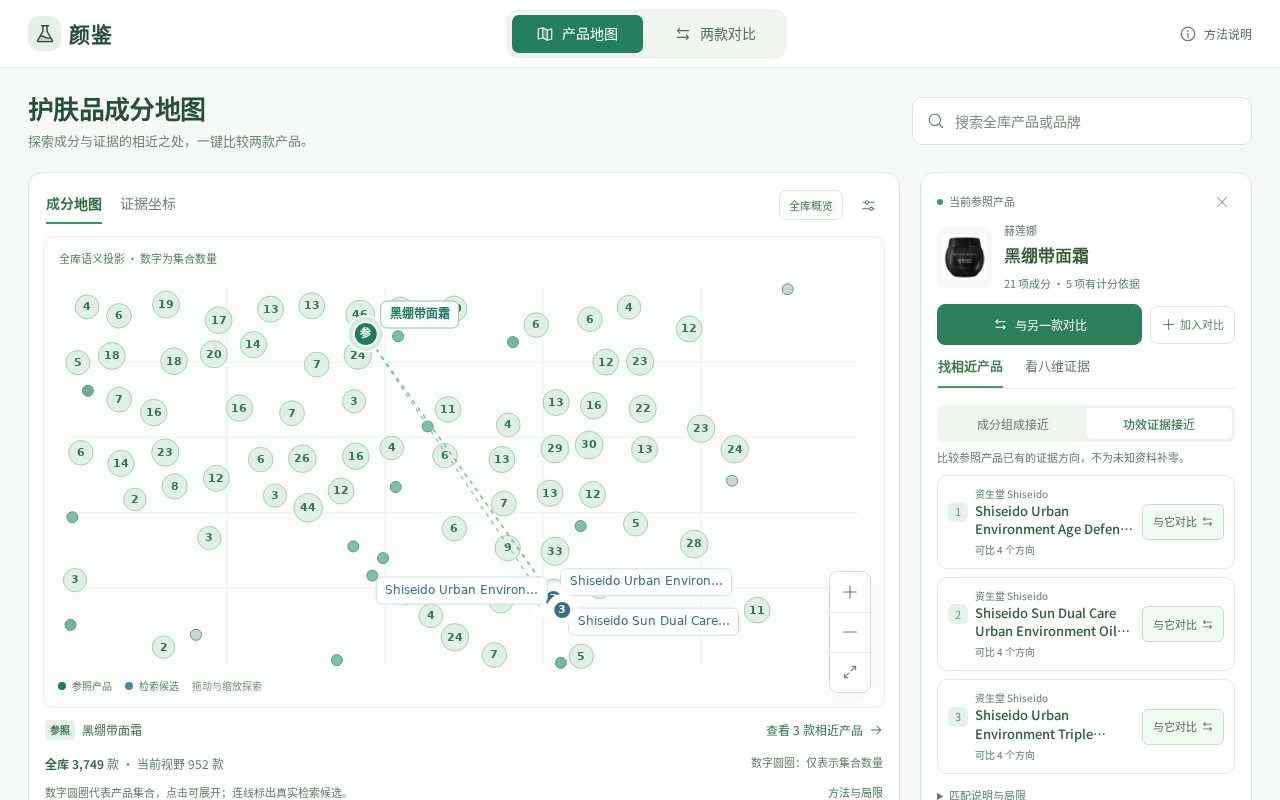
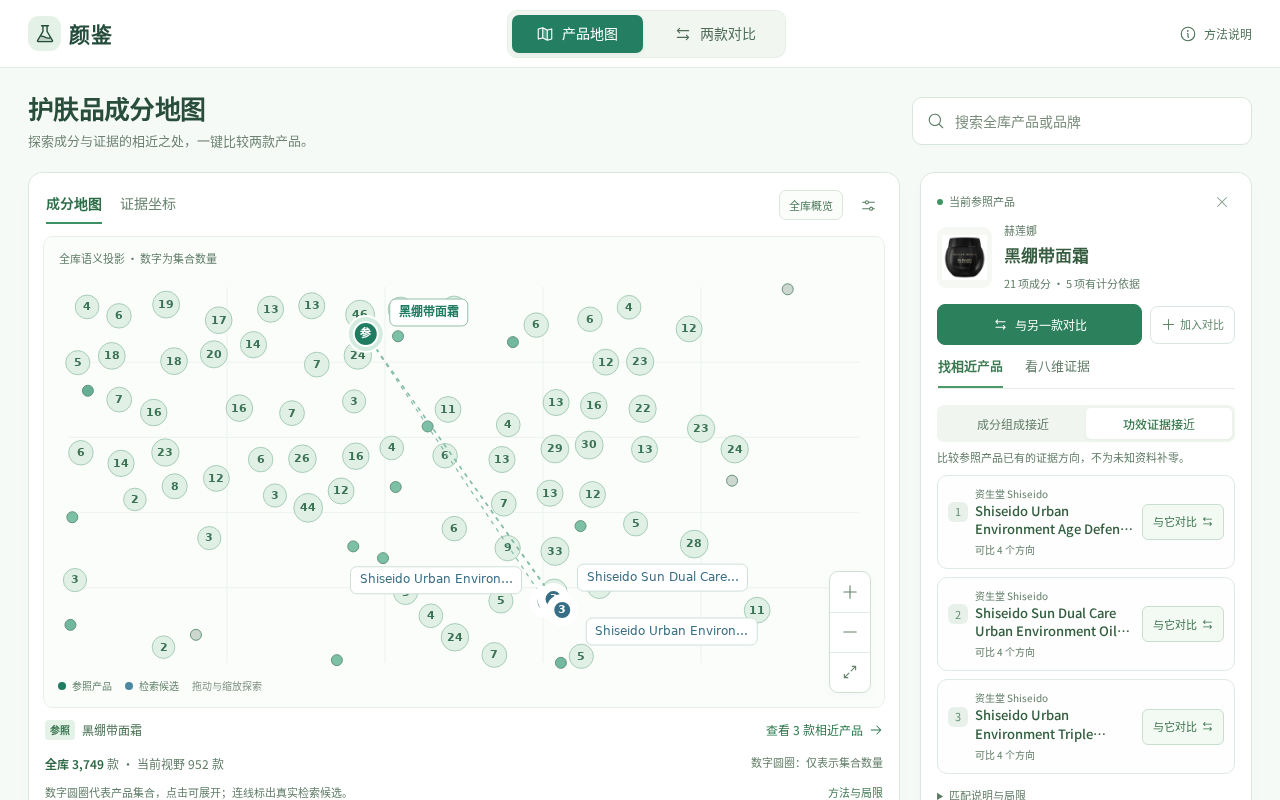
fix: 地图长名称避让全部候选节点

Changed region(s): [[0.2812, 0.6875, 0.5938, 0.8125], [0.2812, 0.375, 0.375, 0.4375]]

diff --git a/frontend/src/showcase/space/MapCanvas.jsx b/frontend/src/showcase/space/MapCanvas.jsx
@@ -1,6 +1,6 @@
 import { forwardRef,useEffect,useImperativeHandle,useMemo,useRef,useState } from 'react'
 import { Minus,Plus,ArrowsOutSimple } from '@phosphor-icons/react'
-import { boundsFor,coordinatesFor,hitsAt,pointTone,groupScreenPoints } from './space.mjs'
+import { boundsFor,coordinatesFor,hitsAt,pointTone,groupScreenPoints,placeMapLabel } from './space.mjs'
 
 export default forwardRef(function MapCanvas({products,visible,mode,axes,color,directions,selected,neighbors=[],comparison,focus,onChoose,onCluster,onViewportChange},ref){
  const frame=useRef(null),canvas=useRef(null),drag=useRef(null)
@@ -53,7 +53,7 @@ export default forwardRef(function MapCanvas({products,visible,mode,axes,color,d
   for(const g of groups){ctx.beginPath();ctx.arc(g.x,g.y,g.radius,0,Math.PI*2);ctx.fillStyle=g.count>1?'#e0f0e5':pointTone(g.items[0].scores[color],colorMax);ctx.fill();ctx.strokeStyle=g.count>1?'#a7cdb7':'#65947b';ctx.lineWidth=1;ctx.stroke();if(g.count>1){ctx.fillStyle='#3b7254';ctx.font='600 11px Arial';ctx.textAlign='center';ctx.textBaseline='middle';ctx.fillText(g.count,g.x,g.y+.5)}}
   const target=foreground.find(p=>p.product.id===selected)
   if(target){ctx.setLineDash([4,5]);ctx.strokeStyle='#84bca9';ctx.lineWidth=1.2;for(const p of foreground.filter(p=>neighbors.some(n=>n.id===p.product.id))){ctx.beginPath();ctx.moveTo(target.x,target.y);ctx.lineTo(p.x,p.y);ctx.stroke()}ctx.setLineDash([])}
-  const labels=[]
+  const labels=[],nodeObstacles=foreground.filter(inFrame).map(p=>{const r=p.product.id===selected?19:16;return {x:p.x-r,y:p.y-r,w:r*2,h:r*2}})
   for(const p of [...foreground].sort((a,b)=>(a.product.id===selected?1:0)-(b.product.id===selected?1:0))){
    if(!inFrame(p))continue
    const isTarget=p.product.id===selected,rank=neighbors.findIndex(n=>n.id===p.product.id),slot=comparison.indexOf(p.product.id)
@@ -66,9 +66,9 @@ export default forwardRef(function MapCanvas({products,visible,mode,axes,color,d
    ctx.font=isTarget?'600 12px Arial':'12px Arial';const max=size.width<500?115:155
    while(ctx.measureText(name).width>max&&name.length>3)name=name.slice(0,-2)+'…'
    const w=ctx.measureText(name).width+18,h=27
-   const options=[[p.x+15,p.y-33],[p.x+15,p.y+9],[p.x-w-15,p.y-33],[p.x-w-15,p.y+9]].map(([x,y])=>({x:Math.max(8,Math.min(x,size.width-w-8)),y:Math.max(35,Math.min(y,size.height-h-34)),w,h}))
-   const overlap=a=>labels.reduce((sum,b)=>sum+(a.x<b.x+b.w&&a.x+a.w>b.x&&a.y<b.y+b.h&&a.y+a.h>b.y?1:0),0)
-   options.sort((a,b)=>overlap(a)-overlap(b));const label=options[0];labels.push(label)
+   const label=placeMapLabel(p,w,h,size,nodeObstacles,labels)
+   if(!label)continue
+   labels.push(label)
    ctx.fillStyle='#ffffff';ctx.strokeStyle=isTarget?'#92bfaa':'#cee0d9';ctx.lineWidth=1;ctx.beginPath();ctx.roundRect(label.x,label.y,w,h,6);ctx.fill();ctx.stroke();ctx.fillStyle=ink;ctx.textAlign='left';ctx.textBaseline='middle';ctx.fillText(name,label.x+9,label.y+h/2)
   }
   ctx.restore()

diff --git a/docs/双核心重设计-验收记录.md b/docs/双核心重设计-验收记录.md
@@ -39,7 +39,7 @@
 
 ## 本地验证
 
-先补失败测试再实现。本轮全量pytest **838通过、1跳过**；前端逻辑 **15通过**；地图/对比浏览器 **23通过**；原站浏览器 **12通过**。原站与展示版生产构建均通过，`web/`仍提交默认原站构建。
+先补失败测试再实现。本轮全量pytest **838通过、1跳过**；前端逻辑 **16通过**；地图/对比浏览器 **23通过**；原站浏览器 **12通过**。原站与展示版生产构建均通过，`web/`仍提交默认原站构建。
 
 覆盖真实零、无资料、未评级、缺浓度、缺价、不同单位、同产品、快速切换、候选接口失败、八方向同刻度、边界点、聚合集合真实成员和源对象不变。测试通过不代替视觉判断。
 
@@ -55,3 +55,9 @@
 - [内嵌地图](design/dual-map-embedded.png)、[内嵌对比](design/dual-compare-embedded.png)。
 
 发布继续使用既有私有创空间、免费CPU、原数据库和冻结坐标；凭证不入库。云端构建、真实HTML/API、401权限和重启后数据签名在发布步骤单独核验，不由本地截图推定。
+
+## 云端复审后的标签修正
+
+首轮云端浏览器已核验两条主线、两个案例、任意A/B、两次点击来源与手机布局；数据、四款画像和布局签名不变，匿名API返回401。独立视觉专家随后发现桌面候选2的白底遮住候选3长名的一小段（P2），虽然侧栏仍可读，本次继续修复。
+
+新增标签几何失败回归后实现统一避让：所有前景节点的白底范围先作为障碍，再布置标签，连同此前标签一起判碰撞。没有清楚空位时不画画布长名，侧栏编号与完整名保留；不移动真实产品坐标，不重新在编号上盖长名。前端逻辑增至16项，重新构建并复验展示浏览器，发布修正后的版本继续进行云端复核与重启验收。

diff --git a/design-qa.md b/design-qa.md
@@ -24,10 +24,11 @@ final result: passed
 - 对比大包装推迟主图：紧凑身份卡、共享顶部两入口、八行全部展开；A绿色/B暖橙、同刻度、数值和标签常显。
 - 手机来源换行和更换按钮过小：来源不折行，更换44px；深色文字提高可读性。
 - A/B更换返回地图丢失：父状态与URL同步，案例、任意搜索和快速切换均复验。
+- 云端复审发现桌面长名称被后绘制节点白底局部覆盖：先补失败测试，标签位置避让全部前景节点和已有标签；无空位时省略画布长名，保留编号与侧栏完整名称。
 - 轴边界漏产品：坐标内边距和含边界判断，重置后实际绘制计数3749，不只比较API总数。
 
 独立视觉、双流程体验、近邻真实性和新发布专家均完成复核，无未关闭P0/P1/P2。真实重叠坐标仍可能遮挡；保留集合/列表选择，不宣称每点永不重叠。数字圆圈仅表示集合数量，不表示功效强弱。
 
-全量pytest838通过/1跳过、15项逻辑、23项展示浏览器、12项原站浏览器通过。原站与展示版构建通过。云端实际发布与重启单独核验，不能从本地测试推定。
+全量pytest838通过/1跳过、16项逻辑、23项展示浏览器、12项原站浏览器通过。原站与展示版构建通过。云端实际发布与重启单独核验，不能从本地测试推定。
 
 完整方法、评分及截图：[双核心重设计验收](docs/双核心重设计-验收记录.md)。历史地图版本记录保留在[上一轮记录](docs/产品地图-设计与审核.md)，不作为当前设计目标。

diff --git a/docs/ModelScope部署.md b/docs/ModelScope部署.md
@@ -145,6 +145,6 @@ PYTHONPATH=/tmp/cfz-atlas-analysis-deps .venv/bin/python data/tools/build_produc
 
[1 lines of base64/hex data omitted]
 
-本地838项pytest通过/1跳过、15项前端逻辑、23项展示浏览器、12项原站浏览器通过；两种生产构建通过。严格视觉门槛8.5，实际四轮7.9→8.3→8.4→8.6，通过后冻结视觉；见[验收记录](双核心重设计-验收记录.md)。
+本地838项pytest通过/1跳过、16项前端逻辑、23项展示浏览器、12项原站浏览器通过；两种生产构建通过。严格视觉门槛8.5，实际四轮7.9→8.3→8.4→8.6，通过后冻结视觉；见[验收记录](双核心重设计-验收记录.md)。
 
 发布仅同步白名单源码及部署文件；Studio README改为双核心口径。构建后分别核验真实云端HTML/API、两种近邻、任意A/B/返回保持、两个案例、来源、手机/内嵌布局、匿名401，再重启检查固定数据及布局签名一致。私有页面的自动浏览器验收通过仅向本空间域名附加授权的HTTP转发完成，使用真实云端响应，不伪造接口；这不等于已核验所属账号登录后的平台外层页面。

diff --git a/docs/项目报告.md b/docs/项目报告.md
@@ -21,7 +21,7 @@
 
 创新在于让全库探索、真实候选、两款多维对比与来源核验联动。成分功效证据指数沿用独立方法 `evidence-index-v1`：同成分同方向最高合格权重相加，来源去重，浓度单独呈现。分类、法规、安全、供应商、专利、白皮书、口服及未评级论文不计入主指数。工具书是低强度行业参考，体外、动物、综述和复方限制保留。既有指纹、排行榜、问答与圆桌接口兼容，主展示确定性运行。
 
-本轮将独立视觉门槛提高到8.5/10，经过7.9、8.3、8.4三轮未通过及实际截图修正，最终8.6通过；该评分是专家设计判断，非用户满意度测量。独立体验、近邻真实性与发布专家同时复验。全量pytest838通过/1跳过、前端逻辑15通过、浏览器35通过；详见[双核心重设计验收](双核心重设计-验收记录.md)。
+本轮将独立视觉门槛提高到8.5/10，经过7.9、8.3、8.4三轮未通过及实际截图修正，最终8.6通过；该评分是专家设计判断，非用户满意度测量。独立体验、近邻真实性与发布专家同时复验。全量pytest838通过/1跳过、前端逻辑16通过、浏览器35通过；详见[双核心重设计验收](双核心重设计-验收记录.md)。
 
 ## 三个技术支点
 
